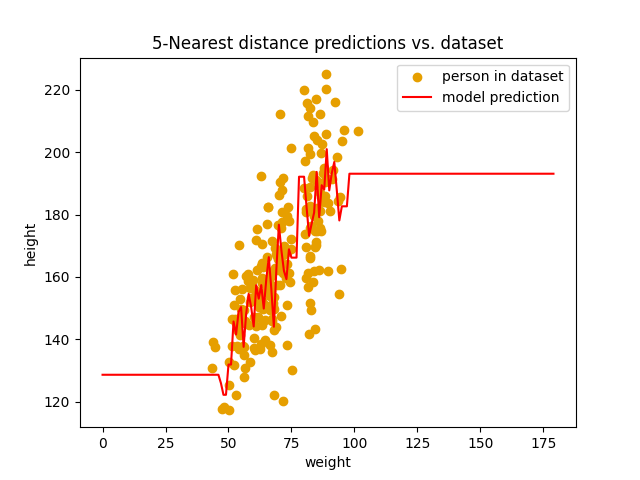
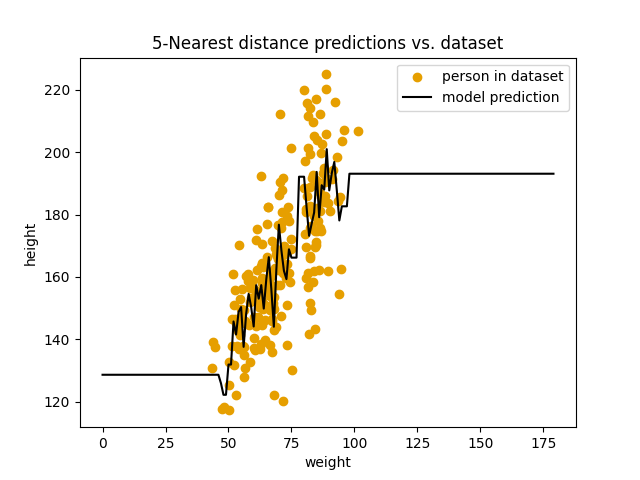
Add: Finish post

Changed region(s): [[0.1562, 0.3125, 0.875, 0.8438], [0.625, 0.1875, 0.6562, 0.2188]]

diff --git a/_posts/2026-01-08/2026-01-08-first-modeling-steps.md b/_posts/2026-01-08/2026-01-08-first-modeling-steps.md
@@ -1,8 +1,8 @@
 ---
-title: Våre første modeller
+title: Vår første modell
 date: 2026-01-08 06:57:00 +0200
 categories: [Maskinlæring og statistikk]
-tags: [prediksjon, ml, statistikk]     # TAG names should always be lowercase
+tags: [prediksjon, ml, statistikk, k-nearest neighboor]     # TAG names should always be lowercase
 math: true
 media_subpath: /assets/images/2026-01-08/
 ---
@@ -133,7 +133,7 @@ Som nå gir oss:
 
 Altså bommer modellen i gjennomsnitt med rundt 19.1 cm i prediksjonene sine. Det er jo ikke veldig ille, men kan vi forbedre det? Ja det tror jeg vi kan.
 
-## Forbedre modellen
+## La oss forbedre modellen vår
 I modellen vår så langt, så ser vi kun på den nærmeste personen i datasettet vårt, men hva om vi er veldig uheldig og den nærmeste personen er unormalt lav eller unormalt høy for vekten sin. Da vil jo modellen predikere en unormalt lav eller høy verdi også. Hvis vi tar en titt på prediksjonene våre igjen, så ser vi at modellen gjøre et stort hopp mellom ca 75kg og 80kg. Her har vi nettopp et slikt tilfelle, der den nærmeste målingen vi har på litt over 75 kg er unormalt lav, mens den nærmeste målingen nært 80 kg er unormalt høy. Modellen tror med andre ord at en typisk person på 75kg er ca. 130 cm, mens om personen er bare 5 kg tyngre er den nesten 220 cm. Det kan umulig stemme. Hvordan kan vi unngå det? 
 
 En ting vi kan gjøre er jo å bruke flere enn en person fra datasettet vårt hver gang vi gjør en prediksjon. Hva om vi f.eks skriver om modellen slik at den bruker gjennomsnittshøyden av de 5 nærmeste vektmålingene som prediksjon. La oss se hva som skjer da:
@@ -155,9 +155,81 @@ Og da får vi:
 16.9
 ```
 
-Så vi har fått en bedre modell!
+## $k$-nærmeste nabo ($k$-nearest neighboor)
+Så ved å øke antallet personer vi bruker fra datasettet vårt for hver prediksjon har vi klart å forbedre modellens prestasjon. Veldig kult! Så la oss igjen tenke litt på hva modellen vår gjør. For hver vektmåling modellens skal predikere en høyde, så lager den på en måte et nabolag av vektmålinger fra datasettet vårt. I dette nabolaget velger den de 5 nærmeste naboene og beregner gjennomsnittshøyden for disse 5 naboene. Dette blir høyden modellen predikerer for den nye vektmålingen. Vi kan generalisere denne modellen til å kunne bruke et arbitrært antall naboer for beregningen også. La oss kalle antallet naboer vi bruker $k$. Vi kan utvide koden vi har skrevet slik:
+```python
+def k_nearest_neighboor(dataset, new_weight: float= None, k: int = 1):
+    distances = []
 
+    # Calculate distance between our new weight measurement and all other weight measurements we have in our data
+    for idx, person in dataset.iterrows():
+        # For each person in our dataset, we calculate the distance to the new weight and we store the height of this person
+        distances.append(np.array([euclidian_distance(new_weight, person.weight), person.height]))
 
+    # Sort the list of distances calculated
+    distances.sort(key = lambda x: x[0])
+
+    # Select the five nearest measurements
+    k_nearest = np.concatenate([distances[:k]], axis=1)
+
+    # Return the height of the person in our dataset that has the closest weight to the one we measured
+    return np.mean(k_nearest[:,1])
+```
+
+Denne modellen bruker altså de $k$ nærmeste naboene for en ny vektmåling for å predikere høyden. Så modellene vi brukte tidligere med $k=1$ og $k=5$ er bare spesielle instanser av denne mer generelle modellen. Og som du kanskje har gjettet, så er dette en modell som ofte brukes i reelle applikasjoner! Det generelle navnet er $k$-nærmeste nabo ($k$-nearest neighboor). Dette er en overraskende god modell med tanke på hvor enkel den er. Og den er ofte en veldig god modell å starte fra når vi skal modellere et problem. Men den har også sine begrensinger. La oss se på hva som skjer når vi øker $k$:
+
+$k$ = 10:
+![text](k_nearest_neighboor_k=10.png)
+
+```
+score: 17.90
+```
+
+$k$ = 50:
+![text](k_nearest_neighboor_k=50.png)
+```
+score: 17.11
+```
+
+$k$ = 100:
+![text](k_nearest_neighboor_k=100.png)
+```
+score: 17.39
+```
+$k$ = 200:
+![text](k_nearest_neighboor_k=200.png)
+```
+score: 25.53
+```
+
+$k$ = 221 (alle datapunktene):
+![text](k_nearest_neighboor_k=221.png)
+```
+score: 25.53
+```
+
+Modellen blir ikke bedre av å øke $k$. Den blir faktisk verre og verre. Det vi ser er at modellen gradvis nærmer seg en flat linje som ligger nøyaktig på gjennomsnittshøyden i datasettet vårt. Vi kan også verifisere dette med kode:
+
+```python
+avg_height = np.round(df_w2h.height.mean(), 3)
+all_predictions_equal = True
+for i, prediction in enumerate(predictions):
+    if np.round(prediction, 3) != avg_height:
+        all_predictions_equal = False
+print(f'All precitions are equal to the dataset average height: {all_predictions_equal}')
+```
+
+Dette gir oss outputen:
+
+```
+All precitions are equal to the dataset average height: True
+```
+
+Så modellen ender til slutt opp med bare å predikere gjennomsnittshøyden i datasettet vårt for enhver vektmåling om vi setter $k$ til en for høy verdi. $k$ er altså noe vi må justere og tilpasse for å finne den beste versjonen av $k$-nærmeste nabo modellen. En annen ting vi kan justere i modellen vår er hvordan vi kombinerer naboene. I modellen vi har brukt her beregner vi gjennomsnittet av høyden til naboene våre og bruker det som prediksjon. Men det finnes mange andre måter å gjøre dette på. For eksempel, hvis vi havner i en situasjon hvor den femte naboen er mye lengre unna enn de fire andre naboene vi finner, er det kanskje urimelig å la den påvirke resultatet like mye som de andre fire. For å gjøre noe med det kunne vi for eksempel vektet bidraget til hver nabo basert på hvor langt unna den er. Dette er en av mange måter man kan utvide $k$-nærmeste nabo modellen for å tilpasse den forskjellige problemer vi møter på. Og det er en av de viktigste lærdommene jeg tror du kan trekke ut fra hele serien her. Alle modeller vi kommer til å se på har mange måter vi kan tilpasse dem vårt spesifikke problem på. Du vil ofte få resultater som generaliserer bedre til ny data om du tilpasser en enkel modell, enn om du hopper til en mer avansert model. Om du husker det når du selv skal modellere problemer tror jeg du allerede kommer langt! 
+
+Og her tror jeg vi sier stopp for denne posten. I neste post skal vi se på hvordan vi tilnærme oss karusellproblemet vårt med å bruke en annen modell. Så ikke vær redd. Vi har langt igjen før vi nærmer oss toppen av fjellet.
+
+## Kode
 Koden for denne posten finnes [her](https://github.com/haakom/enklypesalt/tree/main/2026-01-08_first_models).
 
 ## Endringslogg
